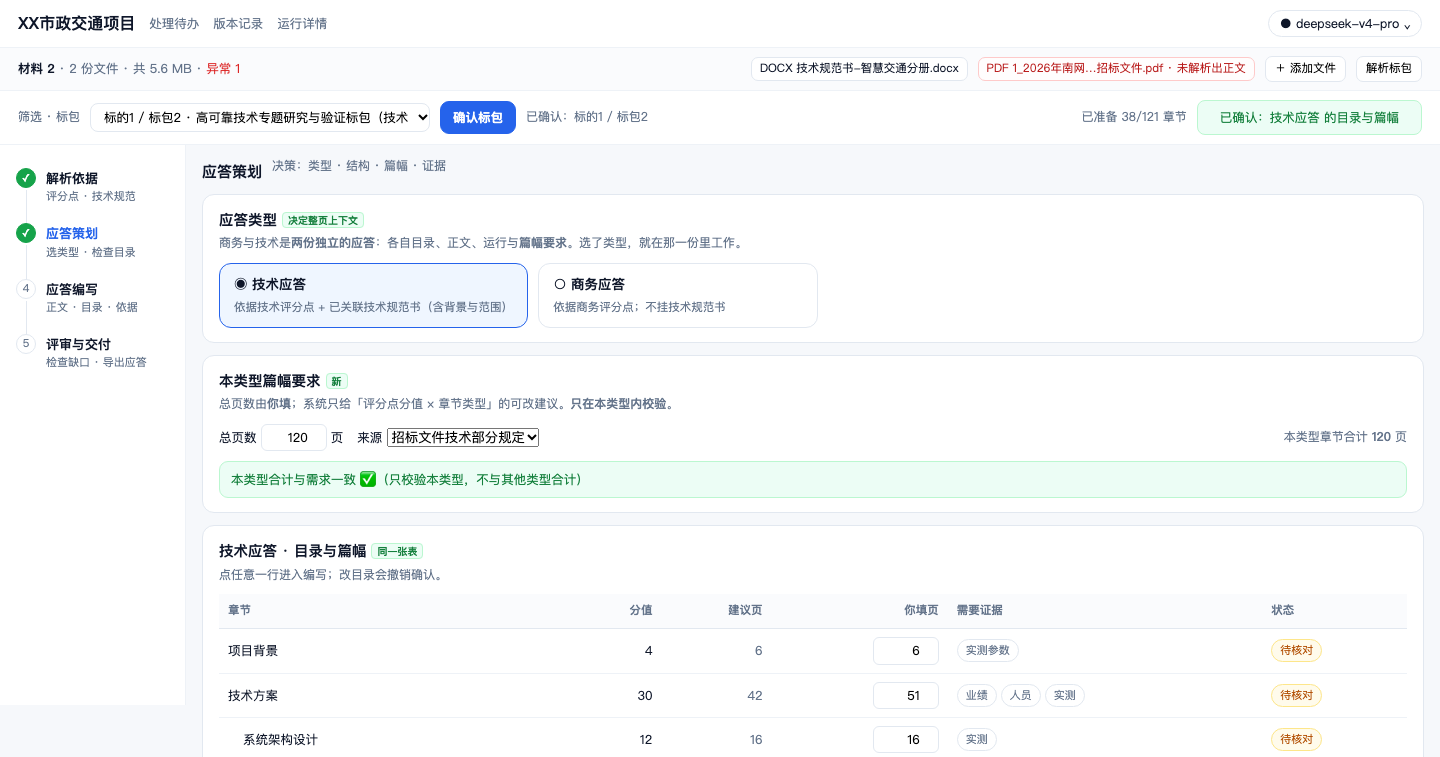
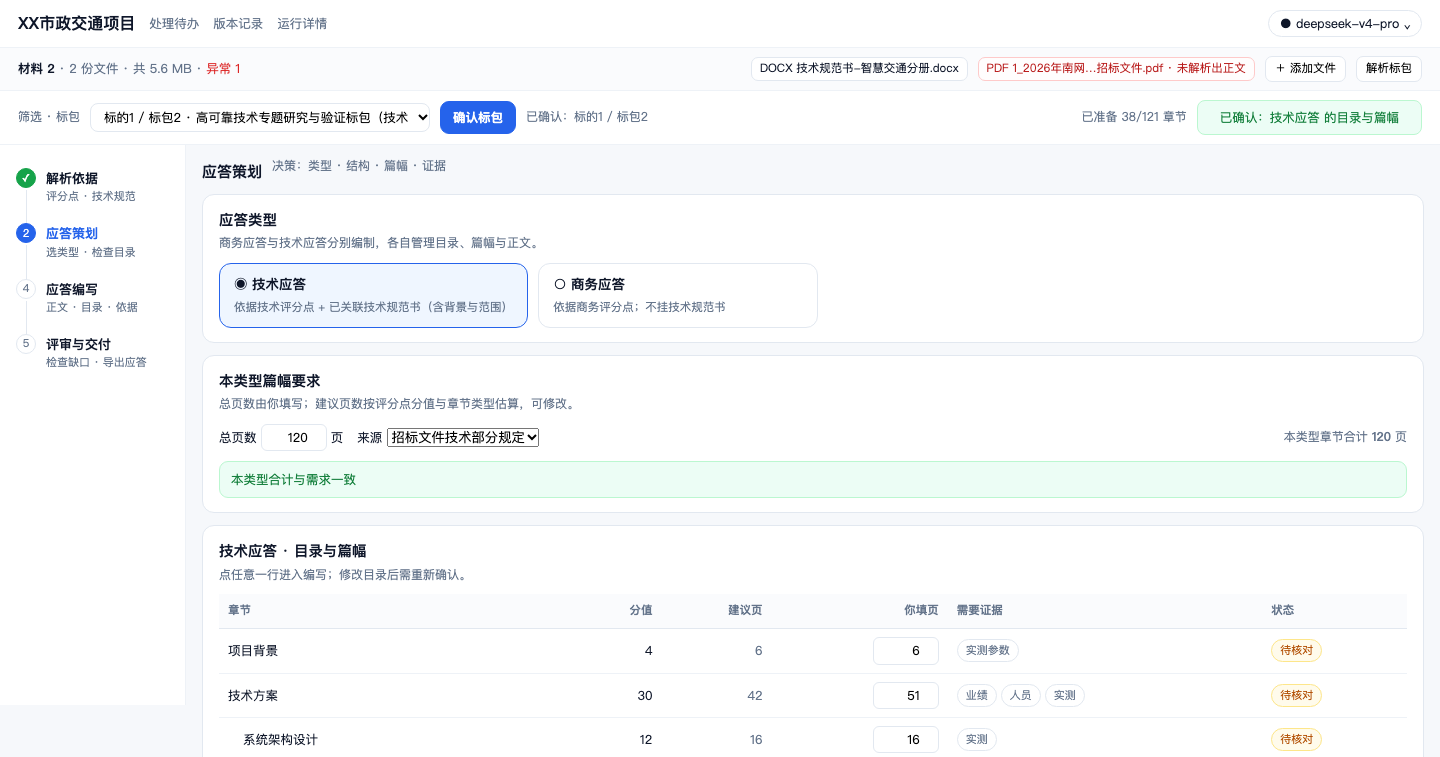
docs(design): 原型去掉设计注释，文案与生产实际保持一致
用户要求：不要「同一张表」这类字眼；原型要能与生产实际一致。

- 去掉全部 10 处「新」标记与对应 CSS
- 标题与按钮改回生产叫法：
  · 「AI 编制本章 · 先看计划」→「AI 编制本章」
  · 「完成并检查」→「确认本章完成」
  · 「技术应答 · 目录与篇幅【同一张表】」→「… · 目录与篇幅」
  · 「应答类型【决定整页上下文】」→「应答类型」
- 说明文案改为产品口吻（去掉设计解释）：
  · 「只在本类型内校验，不与其他类型合计」→「本类型合计与需求一致」
  · 「选了类型就在那一份里工作」→「商务应答与技术应答分别编制，各自管理目录、篇幅与正文」
  · 「编制计划（先看计划，再执行）」→「本章编制计划」；「完成检查（不阻断…）」→「本章完成检查」
  · 「（其中人工改过 N 段）【用户语言】」→「（人工改过 N 段）」
  · 「生成后由你确认再合并」→「草稿生成后需确认才会合并」
  · 「（原型演示：本章正文略）」→「本章暂无正文」
- 页面 title 改为产品口吻「XX市政交通项目 · 技术应答」

核对：页面内已无「同一张表/决定整页上下文/用户语言/先看计划」等注释词；
剩余的「重新拆分」「重新确认」为正常产品文案。左四阶段与子页签不变。

diff --git a/docs/design/mockups/product-shell-plan-and-write.html b/docs/design/mockups/product-shell-plan-and-write.html
@@ -3,7 +3,7 @@
 <head>
 <meta charset="utf-8" />
 <meta name="viewport" content="width=device-width, initial-scale=1" />
-<title>原型 v4 · 在实际产品外壳里（左四阶段 + 阶段内子页签）</title>
+<title>XX市政交通项目 · 技术应答</title>
 <style>
   /* 与产品一致的设计变量 */
   :root{
@@ -60,7 +60,6 @@
   .hint{font-size:12px;color:var(--muted);margin-bottom:10px}
   .sr-dim{color:var(--muted);font-size:12px}
   .sr-note{background:#f8fafc;border:1px solid var(--line2);border-radius:9px;padding:8px 11px;font-size:12.5px;color:var(--muted)}
-  .newtag{font-size:10px;padding:0 5px;border-radius:4px;background:var(--ok-soft);color:#15803d;border:1px solid #bbf7d0;margin-left:5px;vertical-align:1px}
   .pill{display:inline-flex;align-items:center;gap:5px;font-size:11px;padding:2px 8px;border-radius:999px;border:1px solid var(--line);white-space:nowrap}
   .pill.ok{background:var(--ok-soft);border-color:#bbf7d0;color:#15803d}
   .pill.warn{background:var(--warn-soft);border-color:#fde68a;color:#b45309}
@@ -181,13 +180,13 @@
       <!-- ② 应答策划（篇幅一体） -->
       <section id="p2" class="hidden">
         <div class="card">
-          <h2>应答类型<span class="newtag">决定整页上下文</span></h2>
-          <div class="hint">商务与技术是<b>两份独立的应答</b>：各自目录、正文、运行与<b>篇幅要求</b>。选了类型，就在那一份里工作。</div>
+          <h2>应答类型</h2>
+          <div class="hint">商务应答与技术应答分别编制，各自管理目录、篇幅与正文。</div>
           <div class="types" id="typeOpts"></div>
         </div>
         <div class="card">
-          <h2>本类型篇幅要求<span class="newtag">新</span></h2>
-          <div class="hint">总页数由<b>你填</b>；系统只给「评分点分值 × 章节类型」的可改建议。<b>只在本类型内校验</b>。</div>
+          <h2>本类型篇幅要求</h2>
+          <div class="hint">总页数由你填写；建议页数按评分点分值与章节类型估算，可修改。</div>
           <div class="rowline">
             <span>总页数 <input type="number" id="totalPg" value="120" /> 页</span>
             <span>来源 <select id="pgSource"><option>招标文件技术部分规定</option><option>公司标书模板经验值</option></select></span>
@@ -196,15 +195,15 @@
           <div id="sumBanner" class="banner ok">本类型合计与需求一致</div>
         </div>
         <div class="card">
-          <h2 id="planTitle">技术应答 · 目录与篇幅<span class="newtag">同一张表</span></h2>
-          <div class="hint">点任意一行进入编写；改目录会撤销确认。</div>
+          <h2 id="planTitle">技术应答 · 目录与篇幅</h2>
+          <div class="hint">点任意一行进入编写；修改目录后需重新确认。</div>
           <table><thead><tr>
             <th style="width:30%">章节</th><th class="num">分值</th><th class="num">建议页</th>
             <th class="num">你填页</th><th>需要证据</th><th>状态</th></tr></thead>
             <tbody id="planRows"></tbody></table>
           <div class="rowline" style="margin-top:12px">
             <button class="btn primary" id="btnConfirm">确认目录与篇幅</button>
-            <span class="sr-dim" id="confirmNote">确认后一起冻结：目录 + 篇幅 + 证据需求</span>
+            <span class="sr-dim" id="confirmNote">确认后目录、篇幅与证据需求一并保存</span>
             <span class="sp"></span><span class="sr-dim">证据缺口 <b id="gapCount">3</b> 项</span>
           </div>
         </div>
@@ -223,7 +222,7 @@
           <div class="cs-main">
             <div class="card cs-document-head">
               <strong>章节编写</strong><span class="sr-dim" id="docProgress">126 个编写单元 · 草稿 4 · 完成 0</span>
-              <span class="pill ok">篇幅达标 118/126<span class="newtag">新</span></span>
+              <span class="pill ok">篇幅达标 118/126</span>
               <details class="cs-delivery"><summary>Word 导出格式</summary></details>
             </div>
             <div class="card">
@@ -239,16 +238,16 @@
                   <span class="pill ok">AI 已编 <b id="nAi">2</b></span>
                   <span class="pill warn">人工改过 <b id="nHuman">2</b></span>
                   <span class="pill idle">未编制 <b id="nTodo">1</b></span>
-                  <span class="pill idle">表格 <b id="nTable">1</b></span><span class="newtag">新</span>
-                  <span class="sp"></span><span>人工修改的段落不会被后台覆盖</span>
+                  <span class="pill idle">表格 <b id="nTable">1</b></span>
+                  <span class="sp"></span><span>人工修改和移除的段落不会被覆盖</span>
                 </div>
               </div>
               <div class="cs-toolbar">
-                <button class="btn primary" id="btnAi">AI 编制本章 · 先看计划</button>
+                <button class="btn primary" id="btnAi">AI 编制本章</button>
                 <button class="btn" disabled>保存</button>
                 <div class="seg"><button aria-pressed="true">编辑</button><button aria-pressed="false">预览</button></div>
                 <button class="btn">添加内容</button>
-                <button class="btn" id="btnDone">完成并检查<span class="newtag">新</span></button>
+                <button class="btn" id="btnDone">确认本章完成</button>
                 <span class="sp"></span><span class="sr-dim">正文预览 · Word 实际分页请查看导出排版预览</span>
               </div>
               <div id="planBox" class="planbox hidden"></div>
@@ -271,7 +270,7 @@
 
         <div id="p4-directory" class="hidden">
           <div class="card"><h2 id="dirTitle">技术应答目录 · 126 个目录节点</h2>
-            <div class="hint">点击章节进入编写；<span class="newtag">新增：每行显示该章预算与达标情况</span></div>
+            <div class="hint">点击章节进入编写</div>
             <div id="dirList"></div></div>
         </div>
 
@@ -288,7 +287,7 @@
         <div class="card"><h2>导出当前应答</h2>
           <div class="hint">仅导出已保存正文；未编写章节仍为空。当前应答：<b id="checkType">技术应答</b></div>
           <div class="rowline"><button class="btn primary">导出 Word 草稿</button>
-            <span class="sr-dim">导出时带出"未通过项清单"</span></div></div>
+            <span class="sr-dim">导出时带出未通过项清单</span></div></div>
         <div class="card"><h2>红线拦截（4 处）</h2>
           <table><thead><tr><th style="width:24%">章节</th><th>类型</th><th>内容</th><th>处理</th></tr></thead>
             <tbody>
@@ -366,7 +365,7 @@ const BODY={
       ['日均调用量','3.2 亿次','8 亿次','L1 实测参数（已核验）'],
       ['并发用户数','6,000','8,000','L1 凭证级 · 性能测试报告'],
       ['档案记录量','1.2 亿条','2 亿条','L1 实测参数（已核验）']]},
-    P('证据','ev','公司在智慧交通领域具有行业领先的标杆案例经验。','⚠ L1 线索级 · 本企业公众号（无凭证）→ 不得进正文','human',true),
+    P('证据','ev','公司在智慧交通领域具有行业领先的标杆案例经验。','⚠ L1 线索级 · 本企业公众号（无凭证）','human',true),
     P('承诺','pr','［待补］近三年同类项目业绩 3 项','❌ 缺 · 应从「政府采购中标公示」查（✅已接入）','todo'),
   ],
   t2:[
@@ -408,7 +407,7 @@ function renderPlanTable(){
       <td>${need.length?need.map(n=>`<span class="pill idle" style="margin-right:4px">${n}</span>`).join(''):'—'}</td>
       <td>${st}</td></tr>`;
   }).join('');
-  document.getElementById('planTitle').innerHTML=`${plan().label} · 目录与篇幅<span class="newtag">同一张表</span>`;
+  document.getElementById('planTitle').innerHTML=`${plan().label} · 目录与篇幅`;
   document.getElementById('gapCount').textContent=plan().chapters.reduce((n,c)=>n+(c.gaps||0),0);
   document.querySelectorAll('[data-mine]').forEach(inp=>{
     inp.addEventListener('click',e=>e.stopPropagation());
@@ -423,7 +422,7 @@ function renderSum(){
   const mine=plan().chapters.reduce((n,c)=>n+(c.mine||0),0);
   document.getElementById('sumLine').innerHTML=`本类型章节合计 <b>${mine}</b> 页`;
   const b=document.getElementById('sumBanner');
-  if(mine===total){b.className='banner ok';b.textContent='本类型合计与需求一致 ✅（只校验本类型，不与其他类型合计）';}
+  if(mine===total){b.className='banner ok';b.textContent='本类型合计与需求一致';}
   else{b.className='banner warn';b.textContent=`⚠ 本类型章节合计 ${mine} 页，与需求 ${total} 页相差 ${mine-total>0?'+':''}${mine-total} 页`;}
 }
 document.getElementById('totalPg').addEventListener('input',()=>{plan().total=Number(document.getElementById('totalPg').value||0);renderSum();});
@@ -476,7 +475,7 @@ function renderEditor(){
   if(c.done>0&&need>0) sb.textContent=`本章 ${Math.round(c.done*WPP).toLocaleString()} / ${(c.mine*WPP).toLocaleString()} 字 · 差 ${need.toLocaleString()} 字`;
   else if(!c.done) sb.textContent='本章尚未开始编写'; else sb.textContent='本章已达标';
   const ed=document.getElementById('editor'); ed.innerHTML='';
-  if(!paras.length){ed.innerHTML='<div class="sr-dim">（原型演示：本章正文略）</div>';return;}
+  if(!paras.length){ed.innerHTML='<div class="sr-dim">本章暂无正文</div>';return;}
   paras.forEach(p=>{
     if(p.table){const t=document.createElement('div');
       t.innerHTML=`<div style="font-size:12px;color:#334155;font-weight:600;margin:8px 0 2px">${p.title}</div>
@@ -495,7 +494,7 @@ function renderAside(panel){
       <details class="bs" open><summary>${c.name} · ${c.score} 分（评分口径）</summary><p>本章响应是否准确、深入、全面。</p></details>
       <details class="bs"><summary>规范要求 3 条 · 查看原文</summary><p>技术规范书 3.2 / 4.1</p></details>
       <details class="bs"><summary>本章原文内容</summary><p>（原文摘录）</p></details></section>
-    <section><h4>本章缺口（${c.gaps||0} 项）<span class="newtag">新</span></h4>
+    <section><h4>本章缺口（${c.gaps||0} 项）</h4>
       ${c.need.filter(n=>n!=='—').map(n=>`<div class="gap${n==='实测参数'?' warn':''}">
         <div class="t">${n==='实测参数'?'⚠':'❌'} ${n}</div>
         <div class="m">权威源 <b>${n==='业绩'?'政府采购中标公示（✅已接入）':n==='人员'?'人事花名册（⚠未接入）':n==='财务'?'财务审计报告（⚠未接入）':n==='资质'?'发证机构官方核验（✅已接入）':'L1 无来源（禁止用第三方）'}</b></div>
@@ -519,7 +518,7 @@ function renderAside(panel){
   const paras=BODY[cur]||[];
   const progress=`<section><h4>编制进度</h4>
       <div style="font-size:12.5px;margin-bottom:8px">本章 ${paras.length} 段：已写 <b>${paras.filter(p=>p.by!=='todo').length}</b> 段
-        （其中人工改过 <b>${paras.filter(p=>p.by==='human').length}</b> 段）<span class="newtag">用户语言</span></div>
+        （人工改过 <b>${paras.filter(p=>p.by==='human').length}</b> 段）</div>
       <div style="height:6px;background:#eef2f7;border-radius:99px;overflow:hidden;margin-bottom:10px">
         <i style="display:block;height:100%;width:${Math.min(100,Math.round(c.done/Math.max(c.mine,1)*100))}%;background:var(--accent)"></i></div>
       <div style="font-size:12px">▸ 主编已排好计划</div><div style="font-size:12px">▸ 正文与图表已交付，2 段人工改过</div>
@@ -528,17 +527,17 @@ function renderAside(panel){
 }
 document.getElementById('btnAi').addEventListener('click',()=>{
   const box=document.getElementById('planBox'); box.classList.toggle('hidden'); const c=ch(cur);
-  box.innerHTML=`<b>编制计划（先看计划，再执行）</b>
+  box.innerHTML=`<b>本章编制计划</b>
     <div>预计 <b>${cur==='t2'?5:3}</b> 个任务：现状分析 / 方案描述 / ${cur==='t2'?'2 张架构表 / 1 张部署图':'1 张表'}</div>
     <div>预计 <b>${(c.mine*WPP).toLocaleString()}</b> 字 ≈ <b>${c.mine}</b> 页 ｜ 需要 <b>${c.need.filter(n=>n!=='—').length}</b> 类证据（缺口 ${c.gaps||0} 项）</div>
-    <div style="margin-top:7px"><button class="btn sm primary">确认后开始编制</button><span class="sr-dim">启动前可否决计划</span></div>`;
+    <div style="margin-top:7px"><button class="btn sm primary">确认后开始编制</button><span class="sr-dim">如不需要可取消</span></div>`;
 });
 document.getElementById('btnDone').addEventListener('click',()=>{
   const box=document.getElementById('doneBox'); box.classList.toggle('hidden'); const c=ch(cur), need=needOf(c);
   const rows=[[c.done>0,'评分点覆盖','2/3 条已响应（“重难点及对策”缺对策半段）'],
     [need===0,'字数达标',`${Math.round(c.done*WPP).toLocaleString()} / ${(c.mine*WPP).toLocaleString()} 字，差 ${need.toLocaleString()} 字`],
     [(c.gaps||0)===0,'证据凭证级',`缺口 ${c.gaps||0} 项`],[false,'无依据承诺','1 处：「7×24 驻场」无 L1 来源']];
-  box.innerHTML=`<b>完成检查（不阻断，但会随导出带出清单）</b>`+
+  box.innerHTML=`<b>本章完成检查</b>`+
     rows.map(([ok,t,d])=>`<div class="r">${ok?pill('ok','✅'):pill('bad','❌')}<b style="min-width:96px">${t}</b><span class="sr-dim">${d}</span></div>`).join('')+
     `<div style="margin-top:8px"><button class="btn sm primary">仍然标记本章完成</button><span class="sr-dim">完成是人工标记，不代表质量验收通过</span></div>`;
 });
